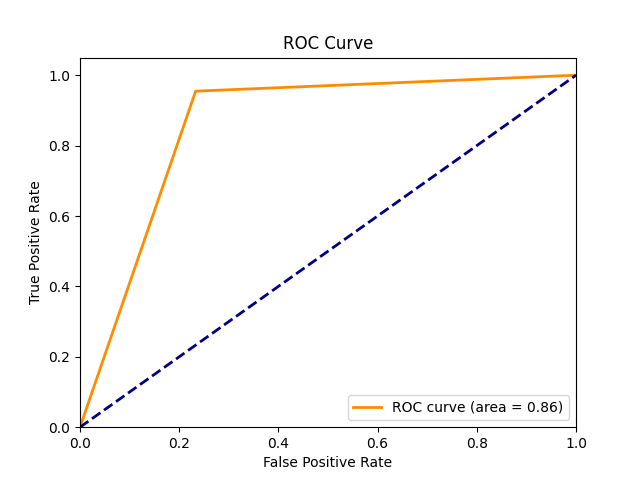
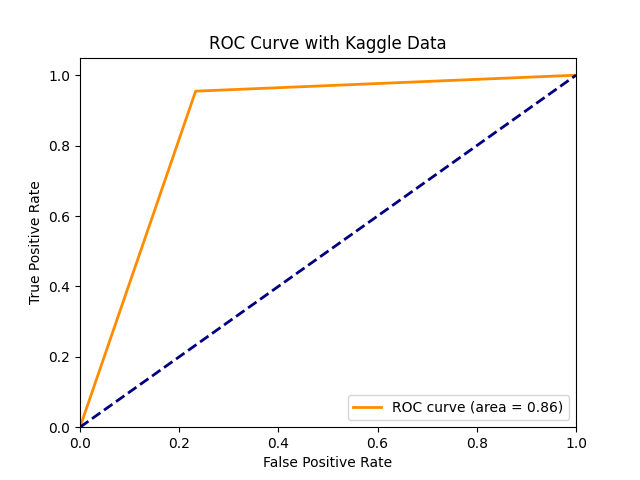
new updated visualizations

Changed region(s): [[0.3125, 0.0625, 0.6875, 0.125]]

diff --git a/decision_tree.py b/decision_tree.py
@@ -9,7 +9,7 @@ from sklearn.metrics import (
     roc_curve, 
     auc
 )
-from preprocessing import load_data
+from preprocessing import load_data, load_data_uoft_kaggle_separate_test
 import pickle
 import matplotlib.pyplot as plt
 import numpy as np
@@ -164,7 +164,7 @@ def plot_confusion_matrix(y, predictions) -> None:
     """
     clf = confusion_matrix(y, predictions)
     cx = ConfusionMatrixDisplay(clf, display_labels=['Phishing', 'Safe']).plot(cmap="RdPu")
-    plt.title("Confusion Matrix for Decision Tree")
+    plt.title("Confusion Matrix for Decision Tree Kaggle Data")
     plt.savefig("visualizations/confusion_matrix_dt.png")
     plt.show()
 
@@ -220,17 +220,18 @@ def plot_roc_curve(tree, X_test, y_test) -> None:
     plt.ylim([0.0, 1.05])
     plt.xlabel('False Positive Rate')
     plt.ylabel('True Positive Rate')
-    plt.title('ROC Curve')
+    plt.title('ROC Curve with Kaggle Data')
     plt.legend(loc="lower right")
     plt.savefig("visualizations/roc_curve_dt.png")
     plt.show()
 
 if __name__ == "__main__":
-    X_train, X_valid, X_test, y_train, y_valid, y_test, feature_names = load_data()
+    # X_train, X_valid, X_test, y_train, y_valid, y_test, feature_names = load_data()
+    X_train, X_valid, X_test, y_train, y_valid, y_test, X_uoft, y_uoft, feature_names = load_data_uoft_kaggle_separate_test()
 
     # TODO: Train Decision Tree 
     tree = run_train_valid(X_train, y_train, X_valid, y_valid)
-    plot_feature_importance(feature_names, tree)
+    # plot_feature_importance(feature_names, tree)
 
     # TODO: NEED TO FIX THIS BECAUSE THE DECISION TREE IS WAY TOO BIG.. MAYBE JUST SHOW A PORTION OF IT?
     # plot_decision_tree(tree, feature_names)
@@ -239,7 +240,6 @@ if __name__ == "__main__":
     # try_hyperparameters(X_train, y_train, X_valid, y_valid, ['gini', 'entropy'], ['best'], [16, 18, 25, 30, 35]) 
 
     # TODO: Test Decision Tree (when done tuning hyperparameters)
-    tree = create_decision_tree(X_test, y_test)
     test_decision_tree(tree, X_test, y_test)
     pred_dtr = tree.predict(X_test)
     plot_confusion_matrix(y_test, pred_dtr)

diff --git a/naive_bayes.py b/naive_bayes.py
@@ -97,7 +97,7 @@ def plot_confusion_matrix(model, X_test, y_test):
     test_pred = model.predict(X_test)
     cm = confusion_matrix(y_test, test_pred)
     cx = ConfusionMatrixDisplay(cm, display_labels=['Phishing', 'Safe']).plot(cmap="YlGn")
-    plt.title("Confusion Matrix for Naive Bayes")
+    plt.title("Confusion Matrix for Naive Bayes Kaggle Data")
     plt.savefig("visualizations/confusion_matrix_nb.png")
     plt.show()
 
@@ -121,7 +121,7 @@ def plot_roc_curve(model, X_test, y_test):
     plt.ylim([0.0, 1.05])
     plt.xlabel('False Positive Rate')
     plt.ylabel('True Positive Rate')
-    plt.title('ROC Curve')
+    plt.title('ROC Curve with Kaggle Data')
     plt.legend(loc="lower right")
     plt.savefig("visualizations/roc_curve_nb.png")
     plt.show()
@@ -156,3 +156,6 @@ if __name__ == "__main__":
     evaluate_naive_bayes(model, X_test, y_test)
     plot_confusion_matrix(model, X_test, y_test)
     plot_roc_curve(model, X_test, y_test)
+    # evaluate_naive_bayes(model, X_uoft, y_uoft)
+    # plot_confusion_matrix(model, X_uoft, y_uoft)
+    # plot_roc_curve(model, X_uoft, y_uoft)

diff --git a/neural_network.py b/neural_network.py
@@ -169,7 +169,7 @@ def plot_confusion_matrix(model, data_loader):
             predictions.extend(predicted.squeeze().cpu().numpy())
     cm = confusion_matrix(true_labels, predictions)        
     cm_display = ConfusionMatrixDisplay(cm, display_labels=['Phishing', 'Safe']).plot(cmap='Blues')
-    plt.title("Confusion Matrix for Neural Network")
+    plt.title("Confusion Matrix for Neural Network Kaggle Data")
     plt.savefig("visualizations/confusion_matrix_nn.png")
     plt.show()
 
@@ -230,7 +230,7 @@ def plot_roc_curve(model, data_loader):
     plt.ylim([0.0, 1.05])
     plt.xlabel('False Positive Rate')
     plt.ylabel('True Positive Rate')
-    plt.title('ROC Curve')
+    plt.title('ROC Curve with Kaggle Data')
     plt.legend(loc="lower right")
     plt.savefig("visualizations/roc_curve_nn.png")
     plt.show()
